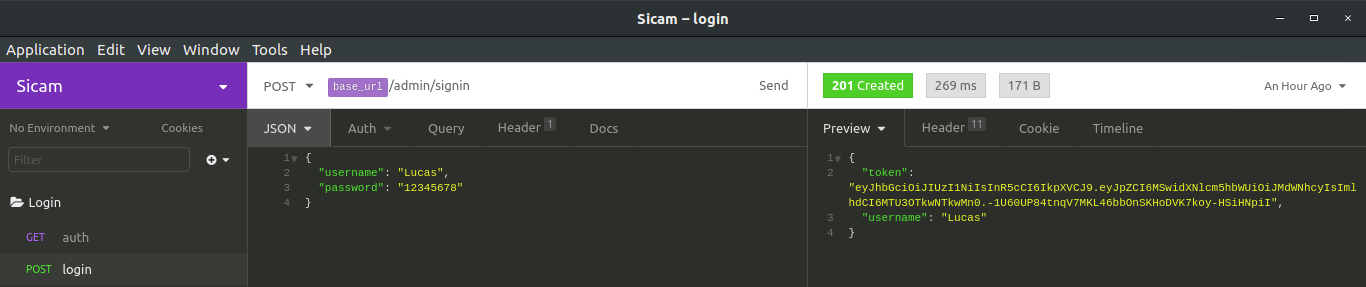
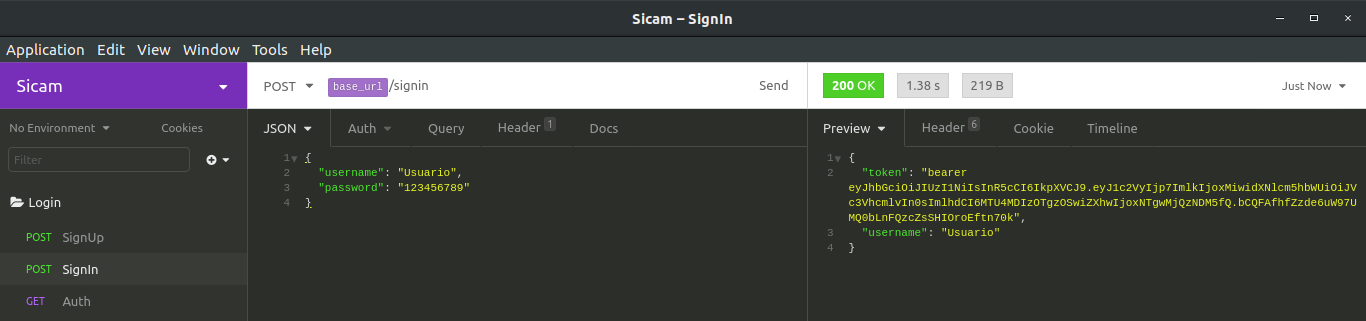
refactor(api): Refactor the Readme.md and change images

diff --git a/README.md b/README.md
@@ -17,162 +17,186 @@ O funcionamento é bastante simples:
 4. Caso o email informado seja encontrado, então as senhas serão comparadas.
 5. Caso as senhas coincidam, será gerado um token de autenticação contendo algumas informações não senssíveis do usuário.
 6. Esse token será devolvido ao front-end, que por sua vez o armazenará no localStorage.
-7. A partir de agora, toda requisição ao servidor levará nos headers, o bendito token.
+7. A partir de agora, o token será enviado no header de toda requisição feita ao servidor.
 8. O servidor por sua vez terá o papel de verificar se aquele token é valido e decidir se permitirá que o usuário continue navegando ou não.
 
-Vale lembrar que o token em questão pode ou não ter uma data para expirar.
+:heavy_check_mark: Vale lembrar que o token em questão pode ou não ter uma data para expirar.
 
 ##### É possível descriptografar o token e ter acesso as informações contidas nele?
-O token é gerado com base em uma chave criptográfica que fica unica e exclusivamente contida no servidor, de modo que só e somente o servidor tem a chave para descriptografar o token.
+:unlock: O token em si não é criptografado, você pode visualizar as informações contidas nele acessando: https://jwt.io/
 
-# Dependências
+:key: Mas existe uma chave de assinatura contida no servidor, essa chave serve para assinar o token, de modo que se alguém tentar enviar um token falsificado, o servidor terá como verificar que aquele token não é verídico.
+
+# Principais dependências
   - Passport
-    -- O Passport é um middleware de autenticação para o Node . Ele foi projetado para servir a um propósito único: autenticar solicitações. 
+    - O Passport é um middleware de autenticação para o Node . Ele foi projetado para servir a um propósito único: autenticar solicitações. 
   - Passport-local
-    -- Estratégia de passaporte para autenticação com nome de usuário e senha.
+    - Estratégia de passaporte para autenticação com nome de usuário e senha.
   - Passport-jwt
-   -- Uma estratégia do Passport para autenticação com um JSON Web Token. 
+    - Uma estratégia do Passport para autenticação com um JSON Web Token. 
   - Jsonwebtoken
-   -- Biblioteca utilizada para gerar, verificar, decodificar o token.
+    - Biblioteca utilizada para gerar, verificar, decodificar o token.
   - Bcrypt
-   -- Biblioteca utilizada para criptografar as senhas do banco
+    - Biblioteca utilizada para criptografar as senhas do banco
   - JOI
-   -- Biblioteca utilizada para fazer validações
+    - Biblioteca utilizada para fazer validações
 
-NOTA: A biblioteca Bcrypt e a biblioteca JOI não são obrigatórias neste caso, mas já que estamos falando de segurança, achei importante criptografar as senhas do banco e fazer a validação dos campos usuário e senha que estão entrando no servidor, não custa nada mesmo. 
+:warning: NOTA: A biblioteca Bcrypt, JOI, dotEnv e Convict não são exatamente necessárias para a implementação da autenticação JWT em si, mas são importantes, seguindo exatamente essa estrutura de API, o projeto poderá ser fácilmente adaptado para ser lançado em produção, ele é minimalista com enfase em demonstrar o JWT, mas também contem algumas boas práticas de organização e segurança. 
 
-##### Instalação das principais bibliotecas:
+##### Comando para iniciar o projeto:
 
 ```sh
-$ npm install passport passport-local passport-jwt jsonwebtoken --save
+$ npm start
 ```
 ##### A onde tudo começa:
-Tudo começa em nosso arquivo de rotas:
-```js
-router.post(
-  '/signin',
-  validationMiddleware(schemas.login, 'body'),
-  passportSignIn,
-  controller.signIn,
-);
-```
-Insominia:
+O projeto está dividido em uma sequencia lógica de três modulos:
+1. SignUp (Registro de usuário)
+2. SignIn (Login de usuário)
+3. Dashboard (Disponível apenas a usuários autenticados)
+
+Tudo começa com o registro de um usuário:
+![Registro de usuário](./img/00.png)
+
+Depois disso, podemos logar com usuário e senha:
 ![image 01](./img/01.png)
 
-Como podemos observar, o usuário dispara uma requisição para o servidor enviando email (ou username) e senha, no nosso exemplo esses dados caem primeiro em um middleware de validação (a biblioteca JOI faz isso), isso não tem a ver com JWT, mas é mais uma medida de segurança antes de continuar.
-
-Se de acordo com o JOI os dados estiverem ok, então eles serão passados agora para o passportSgnin, que é um outro middlware (a estratégia local), este middleware irá fazer aquilo que já foi citado, irá buscar no banco pelo email (ou username) informado e comparar as senhas.
+Como podemos observar, o usuário dispara uma requisição para o servidor enviando usuário e senha, antes desses dados serem entregues ao controller, eles passam por um middlware:
 ```js
-passport.use(
-  new LocalStrategy(
-    {
-      usernameField: 'username',
-    },
-    async (username, password, done) => {
-      try {
-        // Find the user given the email
-        let userModel;
-        try {
-          userModel = await user.findOne({
-            where: { username },
-            attributes: ['id', 'username', 'password'],
-          });
-        } catch (err) {
-          throw new errors.DatabaseError(err);
-        }
-        // If not, handle it
-        if (!userModel) {
-          return done(null, false);
-        }
-        // Check if the password is correct
-        const userPassword = userModel.get('password');
-        const userObj = userModel.get({ plain: true });
-
-        if (await bcrypt.compare(password, userPassword)) {
-          done(null, userObj);
-        } else {
-          return done(null, false);
-        }
-      } catch (error) {
-        done(error, false);
-      }
-      return false;
-    },
-  ),
-);
+router.post('/', secureLocal, controller.signIn);
 ```
-Após isso, caso realmente for encontrado um usuário e as senhas baterem, o proximo destino é o controller:
+O secureLocal se refere a isso, que está sendo exportado de Auth:
 ```js
-signIn: async (req, res) => {
-    const { username, id } = req.user;
+const secureLocal = passport.authenticate('local', { session: false });
+```
+Ou seja, estamos falando da estratégia de autenticação local do passport:
+```js
+// LOCAL STRATEGY
+  passport.use(
+    new LocalStrategy(async (username, password, done) => {
+      // Find the user given the email
+      let userModel;
+      try {
+        userModel = await user.findOne({
+          where: { username, isActive: true },
+          attributes: ['id', 'username', 'password'],
+        });
+      } catch (err) {
+        return done(null, err);
+      }
+      // If not, handle it
+      if (!userModel) {
+        return done(null, false);
+      }
+      
+      // Check if the password is correct
+      const userPassword = userModel.get('password');
+      const userObj = userModel.get({ plain: true });
+
+      if (!(await bcrypt.compare(password, userPassword))) {
+        return done(null, false);
+      }
+      delete userObj.password;
+      return done(null, userObj);
+    }),
+  );
+};
+```
+Observando esse código, podemos facilmente notar que a unica coisa que ele está fazendo é verificar no banco se existe algum usuário igual ao informado, se sim, então ele utiliza o metodo **compare** do bcrypt para comparar as senhas, em caso de **false** a seguir vem a instrução de retorno do passport.
+
+No caso do usuário e senha realmente baterem, então simplesmente excluímos a senha do objeto usuário e o retornamos:
+```js
+delete userObj.password;
+return done(null, userObj);
+```
+Após isso, seguindo para o controller, o token será gerado com base no usuário retornado.
+```js
+signIn: (req, res) => {
+    const { user } = req;
+
     // Generate token
     const token = JWT.sign(
       {
-        id,
-        username,
+        user,
       },
-      JWT_SECRET,
+      config.get('authenticate'), { expiresIn: '1h' } // Expires in 1h
     );
-    res.status(201).json({ token, username });
+
+    res.json({ token: `bearer ${token}`, username: user.username });
   },
 ```
-O controller irá gerar um token com base nas informações retornadas do middleware (no caso id e username) e irá encriptar com base na SALT_KEY.
-
-A SALT_KEY no nosso caso é o JWT_SECRET que se refere ao arquivo config.js:
+Aqui podemos definir algumas coisas interessantes:
+Tempo de duração do token:
 ```js
-module.exports = {
-  JWT_SECRET: 'F56B4FF8DD45841221E664952E5D2',
-};
+{ expiresIn: '1h' } // Expires in 1h
 ```
-Essa é a chave usada para criptografar e descriptografar o token, ela não pode ser passada a ninguém.
+SECRET_KEY:
+```js
+config.get('authenticate')
+```
+Aqui vale uma breve explicação sobre o SECRET_KEY, que é a chave de assinatura do token conforme já falamos no início deste arquivo, nesse caso armazenamos o SECRET_KEY dentro do arquivo do convict: *src/config.js*.
+```js
+authenticate: {
+    doc: 'This is a key to dealing with tokens',
+    format: String,
+    default: 'd65sf4-6sd5f4-6vs1v-s65s4x',
+    env: 'JWT_SECRET',
+  },
+```
+Fizemos isso pois não é legal que algo tão senssível esteja no meio do código, senão qualquer um que tenha acesso ao código poderia ter acesso ao SECRET_KEY.
 
-O objeto de resposta pode conter além do token mais alguma informação não senssível e descriptografada, no nosso caso o username, o que em alguns casos pode facilitar na hora de exibir o nome do cliente no dashboard ou algo do tipo.
+Vale lembrar também, que o SECRET_KEY deve ser chamado no arquivo .env para que funcione:
+```js
+NODE_ENV=development
+JWT_PORT=3000
+JWT_DB_NAME=databaseTest
+JWT_DB_USER=userTest
+JWT_DB_PASSWORD=#Teste34524519
+JWT_DB_DIALECT=mysql
+JWT_DB_HOST=127.0.0.1
+JWT_DB_PORT=3306
+JWT_DB_POOL_MAX=25
+JWT_SECRET=d65sf4-6sd5f4-6vs1v-s65s4x
+```
+**Bearer**: É necessário que o token seja concatenado com o prefixo *Bearer* antes de ser enviado ao front-end, pois o *Bearer* indica que está sendo trafegado um token e não um usuário e senha, que é o caso da flag *Basic*.
 
 Com o token em mãos, o front-end o enviará nos headers das próximas requisições:
-Insominia:
 ![image 01](./img/02.png)
 
 O objetivo de enviar o token na requisição é verificar se aquele usuário é autentico e se tem permissão para acessar tal rota.
 
 Novamente tudo começa no arquivo de rotas:
-
 ```js
-router.get('/test', passportJWT, controller.test);
+router.get('/', secureJwt, controller.test);
 ```
 Dessa vez utilizamos a estratégica JWT:
 
 ```js
-passport.use(
-  new JwtStrategy(
-    {
-      jwtFromRequest: ExtractJwt.fromHeader('authorization'),
-      secretOrKey: JWT_SECRET,
-    },
-    async (payload, done) => {
-      try {
+// JSON WEB TOKENS STRATEGIES
+  passport.use(
+    new JwtStrategy(
+      {
+        jwtFromRequest: ExtractJwt.fromAuthHeaderAsBearerToken('authorization'),
+        secretOrKey: config.get('authenticate'),
+      },
+      async (payload, done) => {
         // Find the user specified in token
         let userModel;
         try {
           userModel = await user.findOne({
             where: { id: payload.id },
-            attributes: ['id', 'username'],
           });
         } catch (err) {
-          throw new errors.DatabaseError(err);
+          return done(null, err);
         }
         // If user doesn't exists, handle it
         if (!userModel) {
           return done(null, false);
         }
         // Otherwise, return the user
-        done(null, user);
-      } catch (error) {
-        done(error, false);
-      }
-      return false;
-    },
-  ),
-);
+        return done(null, user);
+      },
+    ),
+  );
 ```
 Em caso de sucesso, estamos autenticados e podemos seguir para o controller, ao infinito e além!
 ```js
@@ -181,4 +205,3 @@ Em caso de sucesso, estamos autenticados e podemos seguir para o controller, ao 
     res.json({ message: 'It works!' });
   },
 ```
-
